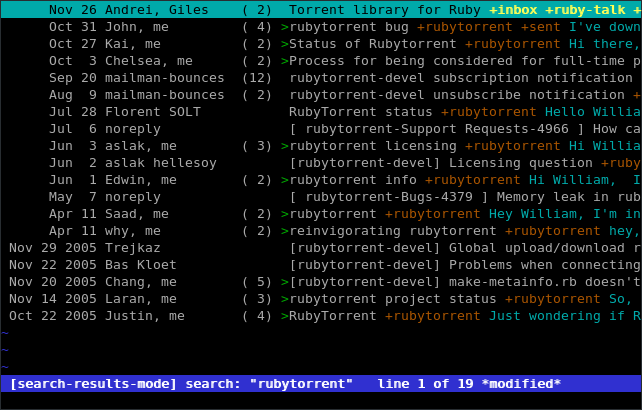
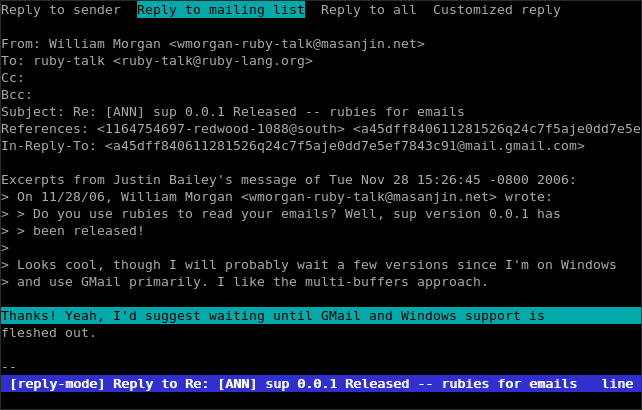
updates based on ml feedback
git-svn-id: svn://rubyforge.org/var/svn/sup/trunk@39 5c8cc53c-5e98-4d25-b20a-d8db53a31250

FossilOrigin-Name: d5a387365eee29bbc4b6998e0fad9a358325b8c589b442230b61ee145fd8dc27

diff --git a/www/index.html b/www/index.html
@@ -27,6 +27,7 @@ everywhere.
 <a href="ss1.png"><img src="ss1-small.png"></a>
 <a href="ss2.png"><img src="ss2-small.png"></a>
 <a href="ss3.png"><img src="ss3-small.png"></a>
+<a href="ss4.png"><img src="ss4-small.png"></a>
 <a href="ss5.png"><img src="ss5-small.png"></a>
 <a href="ss6.png"><img src="ss6-small.png"></a>
 
